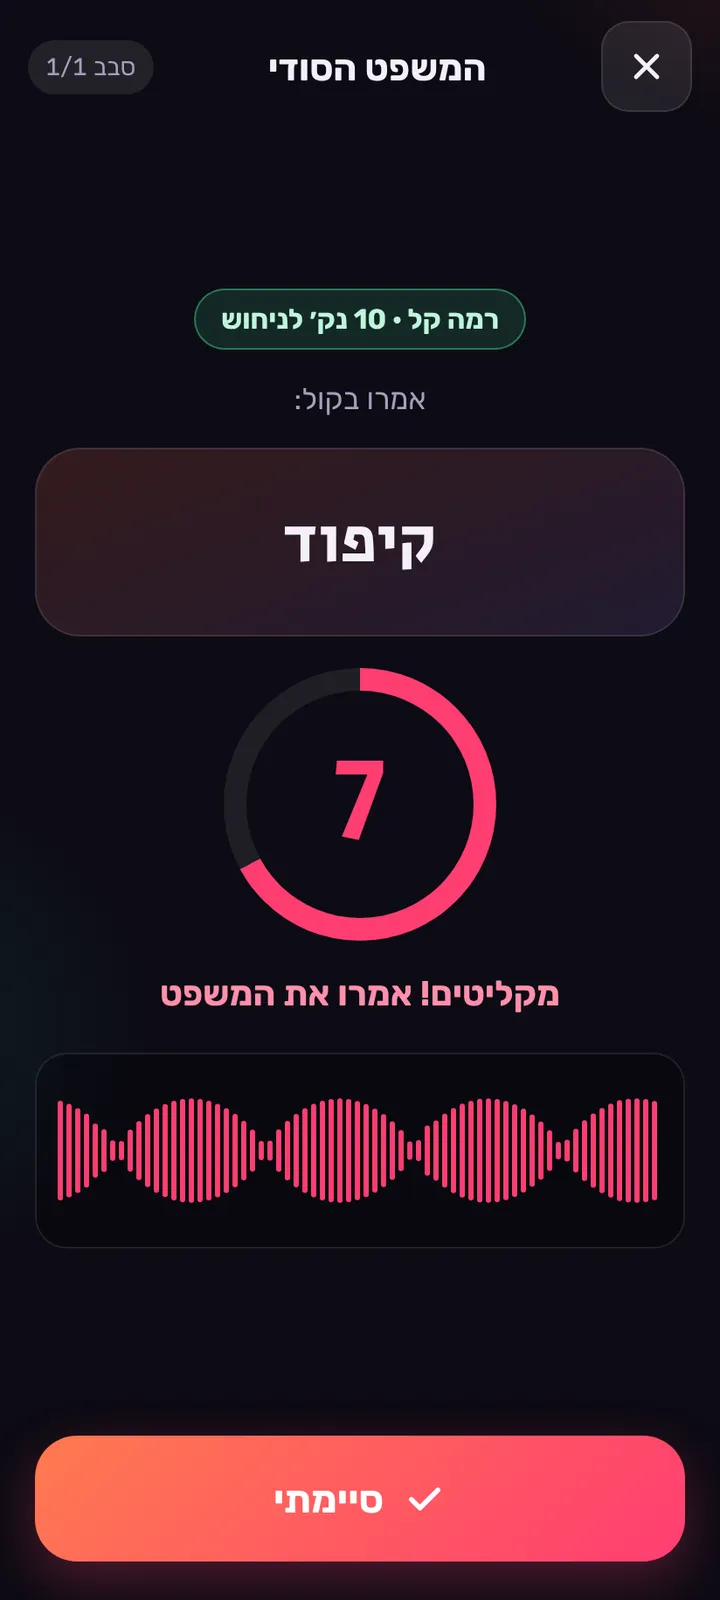
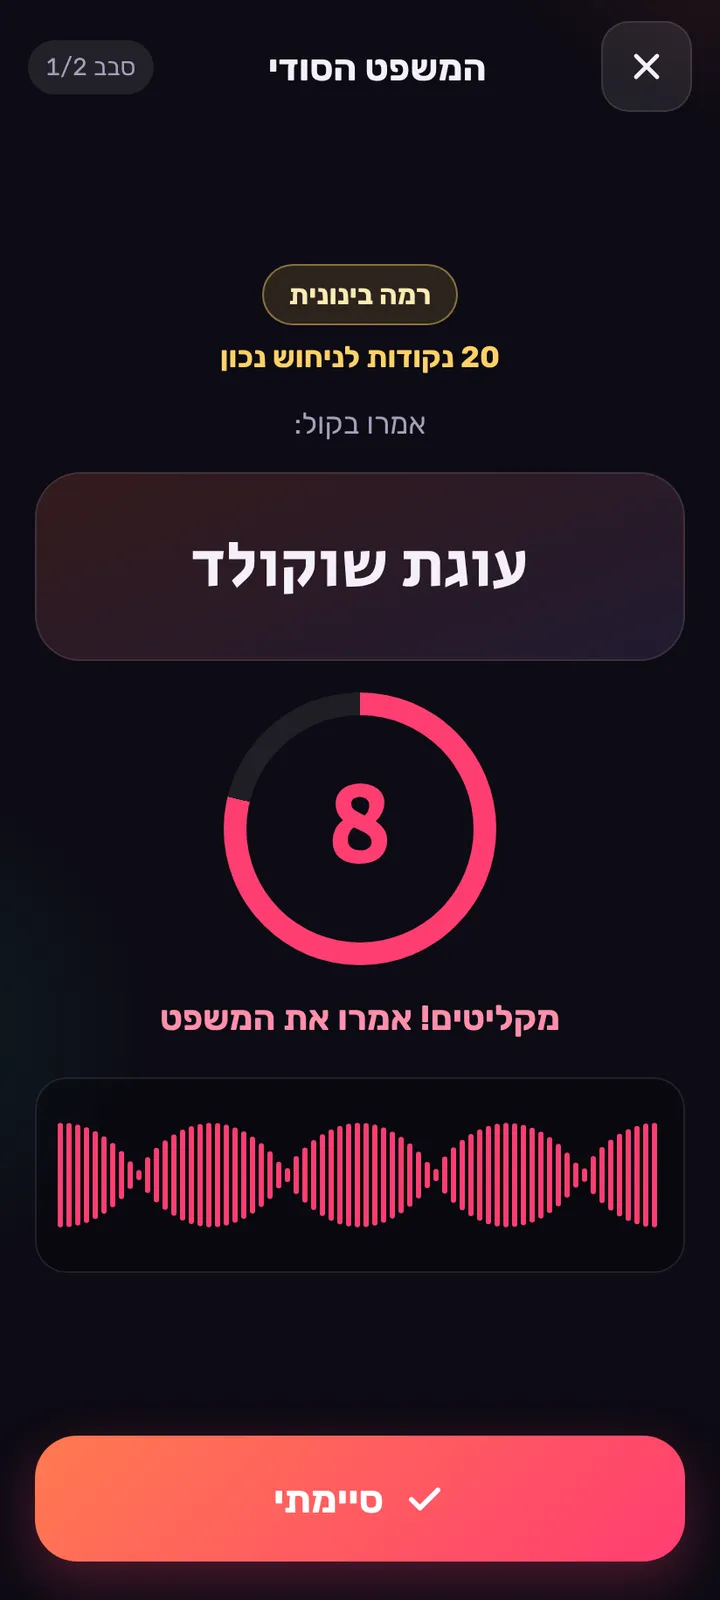
Update achoranit to 2.3
Claude-Session: https://claude.ai/code/session_014tH18ypoXhNeT6TV5LynfV

Changed region(s): [[0.0306, 0.1562, 0.9472, 0.6562], [0.0611, 0.6875, 0.9167, 0.7812], [0.0917, 0.0312, 0.1222, 0.0625]]

diff --git a/web/achoranit/index.html b/web/achoranit/index.html
@@ -151,7 +151,19 @@ button{cursor:pointer;user-select:none;-webkit-user-select:none;touch-action:man
 .lvl[data-l=medium]{color:#ffeab3;background:rgba(255,209,102,.13);border-color:rgba(255,209,102,.45)}
 .lvl[data-l=hard]{color:#ffd3c7;background:rgba(255,107,74,.14);border-color:rgba(255,107,74,.5)}
 .lvl:empty{display:none}
-.chips{display:flex;gap:8px;flex-wrap:wrap;justify-content:center}
+.meta{display:flex;flex-direction:column;align-items:center;gap:8px}
+.meta:empty{display:none}
+.m-round{font-size:17px;font-weight:600;color:var(--muted)}
+.m-pts{font-size:17px;font-weight:700;color:var(--gold)}
+.rec-row{display:flex;align-items:center;justify-content:center;gap:20px}
+.side{display:flex;flex-direction:column;align-items:center;gap:8px;width:86px;font-size:15px;color:var(--muted);text-align:center}
+.roundbtn{width:74px;height:74px;border-radius:50%;display:grid;place-items:center;border:1px solid var(--line);background:var(--surface2);transition:transform .12s}
+.roundbtn:active{transform:scale(.94)}
+.roundbtn svg{width:30px;height:30px}
+.roundbtn.rev{background:rgba(51,225,212,.14);border-color:rgba(51,225,212,.5);color:#c8fbf6}
+.roundbtn.mine{background:rgba(181,140,255,.14);border-color:rgba(181,140,255,.5);color:#e4d6ff}
+.roundbtn:disabled{opacity:.3;pointer-events:none}
+.roundbtn.playing{box-shadow:0 0 0 3px currentColor inset}
 
 /* ---------- board ---------- */
 .board{list-style:none;margin:0;padding:0;display:grid;gap:10px;width:100%}
@@ -254,7 +266,7 @@ button{cursor:pointer;user-select:none;-webkit-user-select:none;touch-action:man
   <section class="screen hidden" id="handoff">
     <header class="bar"><button class="icon-btn" data-back aria-label="יציאה מהמשחק"><svg><use href="#i-x"/></svg></button><h2></h2><span class="pill" data-turn></span></header>
     <div class="body center">
-      <div class="chips" id="hoChips"><span class="lvl" id="hoRound" data-l=""></span></div>
+      <div class="meta" id="hoMeta"></div>
       <p class="eyebrow">הטלפון עובר אל</p>
       <h1 class="big-name" id="hoName"></h1>
       <p class="lead" id="hoText"></p>
@@ -266,7 +278,7 @@ button{cursor:pointer;user-select:none;-webkit-user-select:none;touch-action:man
   <section class="screen hidden" id="speak">
     <header class="bar"><button class="icon-btn" data-back aria-label="יציאה מהמשחק"><svg><use href="#i-x"/></svg></button><h2>המשפט הסודי</h2><span class="pill" data-turn></span></header>
     <div class="body center">
-      <span class="lvl" id="speakLvl" data-l=""></span>
+      <div class="meta" id="speakMeta"></div>
       <p class="eyebrow">אמרו בקול:</p>
       <div class="phrase-card pop"><p id="speakPhrase"></p></div>
       <div class="count" id="speakCount"><span id="speakNum"></span></div>
@@ -283,11 +295,11 @@ button{cursor:pointer;user-select:none;-webkit-user-select:none;touch-action:man
   <section class="screen hidden" id="secret">
     <header class="bar"><button class="icon-btn" data-back aria-label="חזרה"><svg><use href="#i-back"/></svg></button><h2 id="secretTitle">המשפט הסודי</h2><span class="pill" data-turn></span></header>
     <div class="body center">
-      <span class="lvl" id="secretLvl" data-l=""></span>
+      <div class="meta" id="secretMeta"></div>
       <p class="eyebrow" id="secretLead">אמרו את המשפט הזה בקול:</p>
       <div class="phrase-card"><p id="phrase"></p></div>
       <button class="btn" id="dice" style="max-width:260px"><svg><use href="#i-dice"/></svg>תביאו משפט אחר</button>
-      <div class="seg full hidden" id="soloLevels"><button data-lv="easy">קל</button><button data-lv="medium">בינוני</button><button data-lv="hard">קשה</button></div>
+      <div class="seg full hidden" id="soloLevels"><button data-lv="easy">קלה</button><button data-lv="medium">בינונית</button><button data-lv="hard">קשה</button></div>
       <p class="hint c" id="secretHint">🙈 שאר השחקנים לא מציצים!</p>
     </div>
     <div class="foot"><button class="btn xl primary" id="toRecord"><svg><use href="#i-mic"/></svg>לאולפן!</button></div>
@@ -316,14 +328,16 @@ button{cursor:pointer;user-select:none;-webkit-user-select:none;touch-action:man
   <section class="screen hidden" id="imitate">
     <header class="bar"><button class="icon-btn" data-back aria-label="חזרה"><svg><use href="#i-back"/></svg></button><h2>חקו את ההפוך</h2><span class="pill" data-turn></span></header>
     <div class="body center">
-      <button class="btn xl rev" data-play="origRev" data-cv="wi"><svg><use href="#i-rev"/></svg>תנו לשמוע את הג׳יבריש</button>
-      <div class="seg full" id="speedSeg"><button data-speed="1">רגיל</button><button data-speed="0.8">רגוע</button><button data-speed="0.6">צב 🐢</button></div>
       <div class="wave" id="wv-wi"><canvas id="wi"></canvas><div class="empty"></div></div>
+      <div class="seg full" id="speedSeg"><button data-speed="1">רגיל</button><button data-speed="0.8">רגוע</button><button data-speed="0.6">צב 🐢</button></div>
       <div class="rec-wrap">
-        <button class="recbtn" data-rec="imit" aria-label="הקלטת חיקוי"><svg><use href="#i-mic"/></svg></button>
+        <div class="rec-row">
+          <div class="side"><button class="roundbtn rev" data-play="origRev" data-cv="wi" aria-label="השמעה חוזרת של ההקלטה ההפוכה"><svg><use href="#i-rev"/></svg></button><span>השמעה חוזרת</span></div>
+          <button class="recbtn" data-rec="imit" aria-label="הקלטת חיקוי"><svg><use href="#i-mic"/></svg></button>
+          <div class="side"><button class="roundbtn mine" data-play="imit" data-cv="wi" aria-label="השמעת החיקוי שלי"><svg><use href="#i-play"/></svg></button><span>איך יצא לי?</span></div>
+        </div>
         <div class="rec-label" id="lbl-imit"></div>
       </div>
-      <button class="btn" data-play="imit" data-cv="wi"><svg><use href="#i-play"/></svg>איך יצא לי?</button>
     </div>
     <div class="foot"><button class="btn xl gold" id="flip"><svg><use href="#i-flip"/></svg>הפוך על הפוך!</button></div>
   </section>
@@ -357,7 +371,7 @@ button{cursor:pointer;user-select:none;-webkit-user-select:none;touch-action:man
   <section class="screen hidden" id="reveal">
     <header class="bar"><button class="icon-btn" data-back aria-label="יציאה מהמשחק"><svg><use href="#i-x"/></svg></button><h2>חשיפת הסוד</h2><span class="pill" data-turn></span></header>
     <div class="body center">
-      <span class="lvl" id="revLvl" data-l=""></span>
+      <div class="meta" id="revMeta"></div>
       <p class="eyebrow">המשפט הסודי היה:</p>
       <div class="phrase-card pop"><p id="resPhrase"></p></div>
       <p class="lead" id="revLead"></p>
@@ -443,7 +457,7 @@ const PHRASES = {
   hard: ['הכלב של השכנים נובח כל הלילה','אני רוצה עוד חתיכה של עוגה','הפיל הכחול אכל בננה צהובה','מי שם את המפתחות במקרר','השעון המעורר צלצל מוקדם מדי','גנן גידל דגן בגן','הדג הזהב שוחה במים קרים','סבא קנה לי אופניים חדשים','התרנגול קם לפני השמש','הג׳ירפה לא מצאה את המשקפיים','החתול השחור קפץ על השולחן','מחר בבוקר אנחנו נוסעים לים','הקוף גנב בננה מהסל','אני לא מוצא את הגרב השנייה','המורה ביקשה לפתוח את הספר','הפיצה הגיעה בדיוק בזמן','הרכבת יצאה מהתחנה באיחור','הגשם לא מפסיק לרדת היום','סבתא אופה עוגיות עם שוקולד','הפינגווין החליק על הקרח','מישהו השאיר את המקרר פתוח','הבלון האדום עף לשמיים','אני רוצה גלידה עם הרבה תוספות','הנהג עצר ברמזור האדום','הצב ניצח את הארנב במרוץ','השכן מתופף כל הבוקר','הטלפון צלצל באמצע הסרט','הדוב ישן כל החורף','מי אכל את כל הבמבה','מחר יש מבחן בחשבון','התרנגולת הטילה ביצה זהובה','הילדים בנו ארמון בחול','שרה שרה שיר שמח','הקיפוד הלך לאיבוד ביער','האוטובוס עבר לנו מול האף','הפרפר נחת על האף של הכלב']
 };
 const LEVELS = ['easy', 'medium', 'hard'];
-const LEVEL_NAME = { easy: 'קל', medium: 'בינוני', hard: 'קשה' };
+const LEVEL_NAME = { easy: 'קלה', medium: 'בינונית', hard: 'קשה' };
 const LEVEL_POINTS = { easy: 10, medium: 20, hard: 30 };
 
 let actx = null;
@@ -849,6 +863,7 @@ function go(id, back) {
   current = id;
   to.querySelector('.body').scrollTop = 0;
   render();
+  if (id === 'imitate' && !bufs.imit) setTimeout(() => { if (current === 'imitate' && !rec && !playing && bufs.origRev) play('origRev', 'wi'); }, 420);
 }
 function openModal(id) { $('#' + id).classList.remove('hidden'); }
 function closeModals() { $$('.modal').forEach(m => m.classList.add('hidden')); }
@@ -907,8 +922,7 @@ function speakTick(elapsed, max) {
 function renderSpeak() {
   const st = speakState, box = $('#speakCount'), num = $('#speakNum'), lab = $('#speakLabel');
   $('#speakPhrase').textContent = phrase;
-  $('#speakLvl').dataset.l = turnLevel;
-  $('#speakLvl').textContent = `רמה ${LEVEL_NAME[turnLevel]} · ${LEVEL_POINTS[turnLevel]} נק׳ לניחוש`;
+  fillMeta($('#speakMeta'), false);
   box.classList.toggle('rec', st === 'rec');
   lab.classList.toggle('rec', st === 'rec');
   if (st === 'count') {
@@ -941,6 +955,15 @@ function newPhrase() {
   usedPhrases.add(phrase);
 }
 const roundOf = t => Math.floor(t / Math.max(1, players.length));
+// Round, level and points on separate lines (party only).
+function fillMeta(el, showRound) {
+  el.textContent = '';
+  if (mode !== 'party') return;
+  const add = (cls, text) => { const sp = document.createElement('span'); sp.className = cls; sp.textContent = text; el.appendChild(sp); return sp; };
+  if (showRound) add('m-round', `סבב ${roundOf(turnNo) + 1} מתוך ${rounds}`);
+  add('lvl', `רמה ${LEVEL_NAME[turnLevel]}`).dataset.l = turnLevel;
+  add('m-pts', `${LEVEL_POINTS[turnLevel]} נקודות לניחוש נכון`);
+}
 function resetRound() {
   compareToken++; comparing = false; stopPlay(true);
   bufs.orig = bufs.origRev = bufs.imit = bufs.result = null;
@@ -1041,8 +1064,7 @@ function render() {
   const who = handoffStage === 'speaker' ? speakerIdx : guesserIdx;
   if (party && players[who]) {
     $('#hoName').textContent = players[who].name;
-    $('#hoRound').dataset.l = turnLevel;
-    $('#hoRound').textContent = `סבב ${roundOf(turnNo) + 1} מתוך ${rounds} · רמה ${LEVEL_NAME[turnLevel]} · ${LEVEL_POINTS[turnLevel]} נק׳`;
+    fillMeta($('#hoMeta'), true);
     $('#hoText').textContent = handoffStage === 'speaker'
       ? 'תורך להקליט משפט סודי. אחרי הלחיצה יופיע המשפט, ותוך 5 שניות ההקלטה מתחילה. כל השאר: לא להציץ!'
       : `יש הקלטה סודית מ${players[speakerIdx].name}. תורך להקשיב לה הפוך, לחקות אותה ולנחש מה נאמר.`;
@@ -1052,8 +1074,7 @@ function render() {
   $('#phrase').textContent = phrase;
   $('#secretTitle').textContent = party ? 'המשפט הסודי' : 'המשפט לאתגר';
   $('#secretHint').classList.toggle('hidden', !party);
-  $('#secretLvl').dataset.l = party ? turnLevel : level;
-  $('#secretLvl').textContent = party ? `רמה ${LEVEL_NAME[turnLevel]} · ${LEVEL_POINTS[turnLevel]} נק׳ לניחוש` : '';
+  fillMeta($('#secretMeta'), false);
   $('#soloLevels').classList.toggle('hidden', party);
 
   // record
@@ -1079,8 +1100,8 @@ function render() {
   $('#soloFoot').classList.toggle('hidden', party);
   $('#partyFoot').classList.toggle('hidden', !party);
   $('#resPhrase').textContent = phrase;
-  $('#revLvl').dataset.l = turnLevel;
-  $('#revLvl').textContent = `רמה ${LEVEL_NAME[turnLevel]} · ${LEVEL_POINTS[turnLevel]} נק׳`;
+  fillMeta($('#revMeta'), false);
+  $('#resTitle').textContent = party ? 'מנחשים' : 'הרגע של האמת';
   $('#gotIt').disabled = $('#missed').disabled = judged;
   $('#gotItTxt').textContent = `בול! \u2066+${LEVEL_POINTS[turnLevel]}\u2069`;
   $$('[data-act=compare]').forEach(b => { b.disabled = !bufs.result || !!rec; b.classList.toggle('playing', comparing); });
